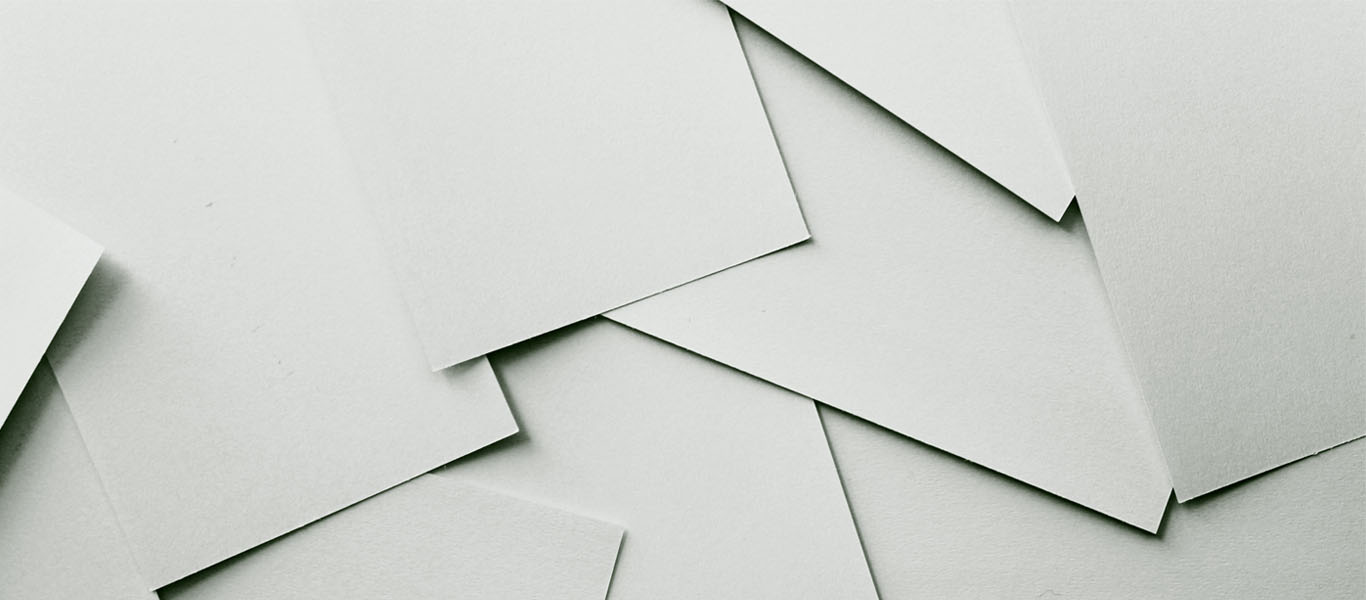
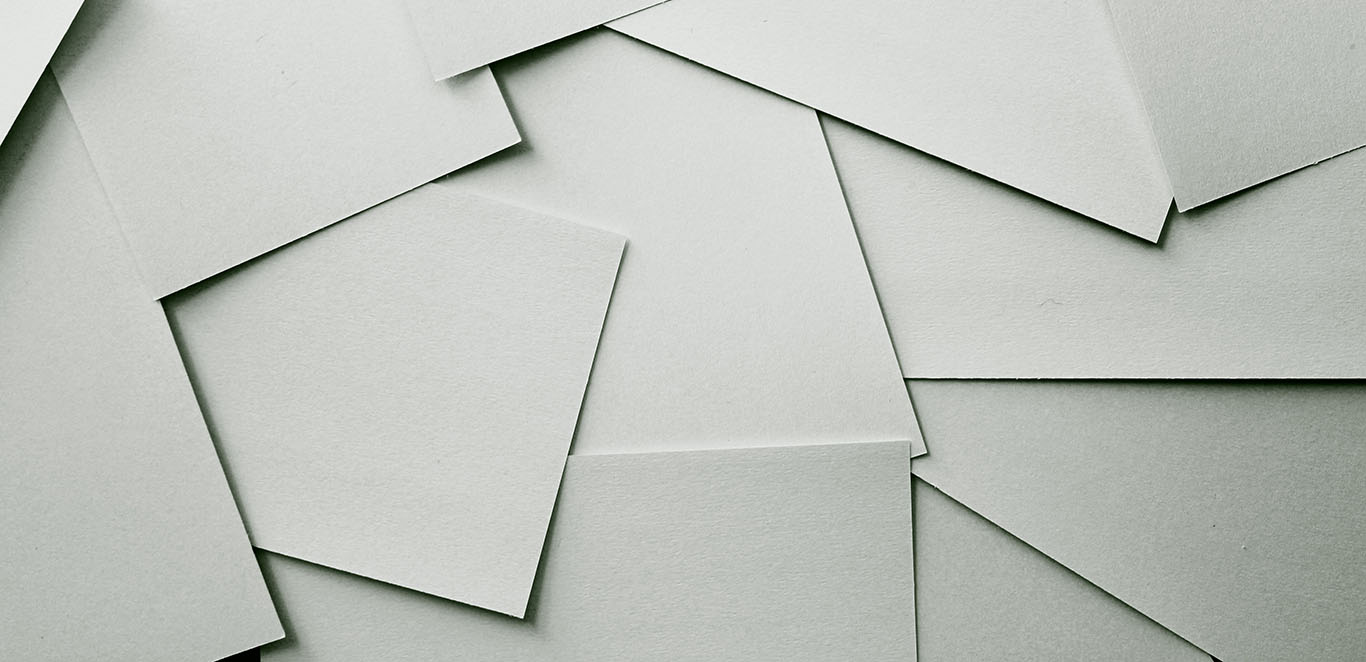
add parallax on team section

diff --git a/css/style.css b/css/style.css
@@ -6,11 +6,14 @@
 
 .header {
   background-image: linear-gradient(rgba(0, 0, 0, 0.6), rgba(0, 0, 0, 0.6)), url("../img/header.jpg");
+  background-attachment: fixed;
+  background-position: center;
+  background-repeat: no-repeat;
+  background-size: cover;
+}
 
-  /* Set a specific height */
-  min-height: 300px;
-
-  /* Create the parallax scrolling effect */
+.dibalik-layar {
+  background-image: linear-gradient(rgba(0, 0, 0, 0.6), rgba(0, 0, 0, 0.6)), url("../img/paper.jpg");
   background-attachment: fixed;
   background-position: center;
   background-repeat: no-repeat;

diff --git a/new.html b/new.html
@@ -263,7 +263,7 @@
       </section>
 
 
-      <section id="tim" class="paddingtop">
+      <section id="tim" class="dibalik-layar white-text paddingtop">
         <div class="container">
           <div class="vertical30"></div>
           <h3 class="center">Dibalik layar</h3>
